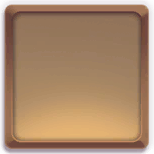
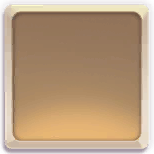
added ui elements

Changed region(s): [[0.026, 0.026, 0.987, 0.987]]

diff --git a/src/api/const.js b/src/api/const.js
@@ -2,6 +2,7 @@ const itemImages = new Map([]);
 const heroImages = new Map([]);
 const skillIcons = new Map([]);
 const bgItems = new Map([]);
+const uiImages = new Map([]);
 
 function importImages (mapObj, keyIsNumber, req) {
   req.keys().forEach( key =>
@@ -22,6 +23,7 @@ try {
   importImages( skillIcons, true, require.context('../assets/skills/') );
   importImages( itemImages, true, require.context('../assets/items/') );
   importImages( bgItems, true, require.context('../assets/bg-items/') );
+  importImages( uiImages, false, require.context('../assets/ui/') );
 } catch(err) { ; }
 
 const elements = ['Neutral', 'Fire', 'Water', null, 'Nature', null, null, null, 'Dark'];
